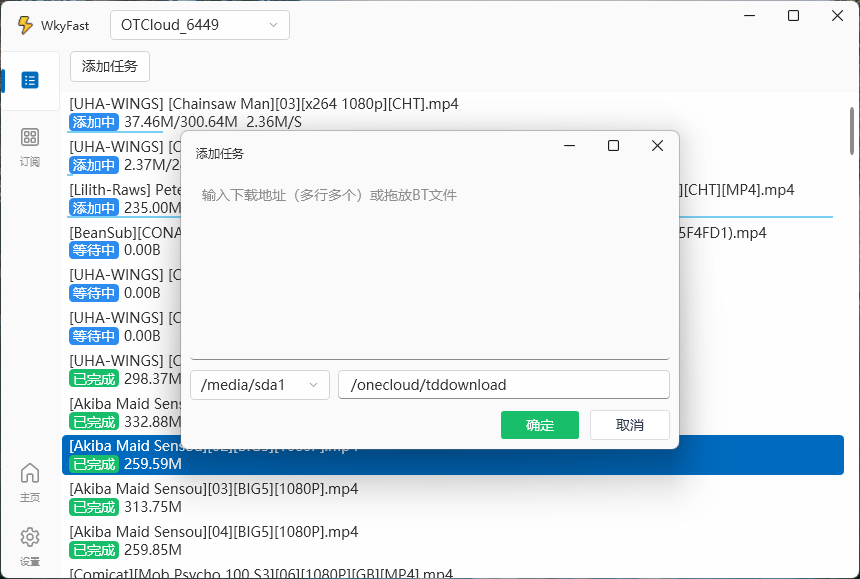
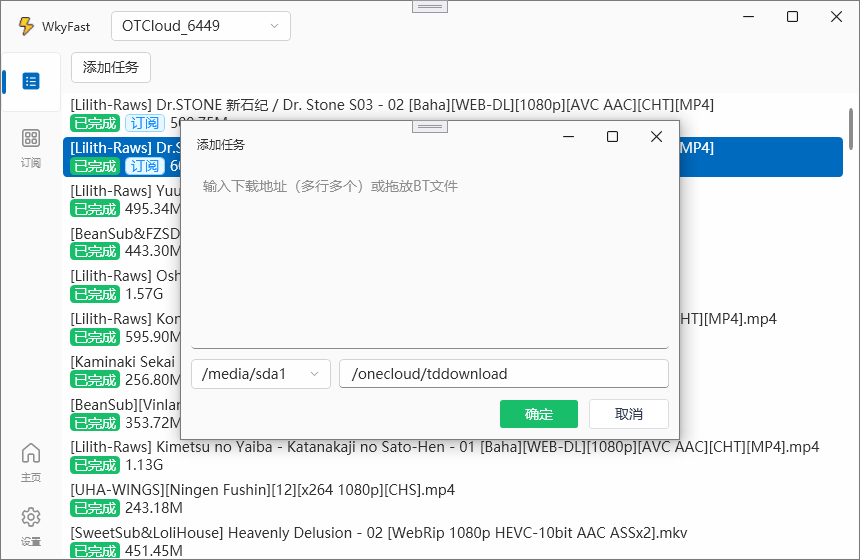
下载列表支持默认显示订阅中的名称

diff --git a/WkyFast/View/View/TaskListCellControl.xaml b/WkyFast/View/View/TaskListCellControl.xaml
@@ -16,6 +16,7 @@
         <converter:DownloadSpeedVisibilityConverter x:Key="DownloadSpeedVisibilityConverter"/>
         <converter:DownloadStatusBrushContver x:Key="DownloadStatusBrushContver"/>
         <converter:ExistVisibilityConverter x:Key="ExistVisibilityConverter"/>
+        <converter:BoolVisibilityConverter x:Key="BoolVisibilityConverter"/>
         
 
 
@@ -61,7 +62,11 @@
                     </Grid>
 
                     <StackPanel Margin="2,2"  Grid.Column="0">
-                        <TextBlock Text="{Binding Data.Name}"></TextBlock>
+                        <TextBlock Text="{Binding ShowName}">
+                            <TextBlock.ToolTip>
+                                <TextBlock Text="{Binding Data.Name}" TextWrapping="WrapWithOverflow"></TextBlock>
+                            </TextBlock.ToolTip>
+                        </TextBlock>
                         <StackPanel Orientation="Horizontal" VerticalAlignment="Center">
                             <Border CornerRadius="4" Height="18" MinWidth="40" 
                                     Background="{Binding Data.State, Converter={StaticResource DownloadStatusBrushContver}}">
@@ -79,7 +84,27 @@
                                 </TextBlock>
                             </Border>
 
-
+                            <Border Margin="5,0,0,0" BorderThickness="1" BorderBrush="#91D5FF" CornerRadius="4" Height="18" MinWidth="40" Background="#E6F7FF" Visibility="{Binding FromSubscription, Converter={StaticResource BoolVisibilityConverter}}">
+                                <!--<Border.Visibility >
+                                    <MultiBinding Converter="{StaticResource ExistVisibilityConverter}">
+                                        <Binding Path="Data.Exist"/>
+                                        <Binding Path="Data.State"/>
+                                    </MultiBinding>
+                                </Border.Visibility>-->
+                                <TextBlock Text="订阅"  Foreground="#1890FF" HorizontalAlignment="Center" VerticalAlignment="Center" Margin="4,0,4,0">
+                                    <TextBlock.Style>
+                                        <Style TargetType="TextBlock" >
+                                            <Setter Property="Foreground" Value="#FFFFFF" />
+                                            <Style.Triggers>
+                                                <DataTrigger Binding="{Binding IsSelected, RelativeSource= {RelativeSource AncestorType={x:Type DataGridRow}}}" Value="True">
+                                                    <Setter Property="Foreground" Value="#FFFFFF" />
+                                                </DataTrigger>
+                                            </Style.Triggers>
+                                        </Style>
+                                    </TextBlock.Style>
+                                </TextBlock>
+                            </Border>
+                            
                             <Border Margin="5,0,0,0" CornerRadius="4" Height="18" MinWidth="40" Background="#DCDEE2" >
                                 <Border.Visibility>
                                     <MultiBinding Converter="{StaticResource ExistVisibilityConverter}">

diff --git a/WkyFast/View/WkySubscriptionListView.xaml b/WkyFast/View/WkySubscriptionListView.xaml
@@ -73,14 +73,11 @@
                     <DataGridTemplateColumn.CellTemplate>
                         <DataTemplate>
                             <Border CornerRadius="4" >
-                                
                                 <Border.ToolTip >
-
                                     <ToolTip Background="#00000000" BorderBrush="#00000000" ToolTipService.ShowOnDisabled="True" ToolTipService.HasDropShadow="True">
                                         <ToolTip.Template>
                                             <ControlTemplate TargetType="{x:Type ToolTip}">
                                                 <Border Background="White" CornerRadius="5" BorderThickness="1" BorderBrush="#20000000" >
-                                                    <!-- ToolTip内容 -->
                                                     <Border CornerRadius="4" Padding="5,5,5,5" >
                                                         <Border.Style>
                                                             <Style TargetType="Border" >
@@ -91,9 +88,6 @@
                                                             <TextBlock Text="最近下载"></TextBlock>
                                                             <TextBlock Text="{Binding LastSubscriptionContent}" TextWrapping="Wrap"></TextBlock>
                                                         </StackPanel>
-
-
-
                                                     </Border>
                                                 </Border>
                                             </ControlTemplate>

diff --git a/WkyFast/Service/SubscriptionManager.cs b/WkyFast/Service/SubscriptionManager.cs
@@ -17,6 +17,7 @@ using WkyFast.Utils;
 using WkyFast.Service.Model.SubscriptionModel;
 using System.Text.RegularExpressions;
 using WkyApiSharp.Service.Model;
+using System.Collections;
 
 namespace WkyFast.Service
 {
@@ -57,6 +58,7 @@ namespace WkyFast.Service
 
         public ObservableCollection<SubscriptionModel> SubscriptionModel { get; set; } = new ObservableCollection<SubscriptionModel>();
 
+        public Hashtable TaskUrlToSubscriptionName { get; set; } = new Hashtable();
 
         public SubscriptionManager()
         {
@@ -192,6 +194,29 @@ namespace WkyFast.Service
 
         }
 
+
+        public string GetSubscriptionName(string downloadName)
+        {
+            foreach (var sub in SubscriptionModel)
+            {
+                foreach (var model in sub.AlreadyAddedDownloadModel)
+                {
+                    if (model.Result != null && model.Result.Tasks.Count() > 0)
+                    {
+                        foreach (var task in model.Result.Tasks)
+                        {
+                            if (task.Name == downloadName)
+                            {
+                                return model.Name;
+                            }
+                        }
+                        
+                    }
+                }
+            }
+            return "";
+        }
+
         /// <summary>
         /// 通过网络获取订阅地址的Title
         /// </summary>
@@ -307,14 +332,21 @@ namespace WkyFast.Service
 
                                     var addResult = WkyApiManager.Instance.DownloadBtFileUrl(downloadUrl, subscription.Device, savePath).Result;
 
+                                    var taskUrl = addResult?.Result?.Tasks?.FirstOrDefault()?.Url;
+                                    if (!string.IsNullOrWhiteSpace(taskUrl))
+                                    {
+                                        TaskUrlToSubscriptionName[taskUrl] = subject;
+                                    }
+
+
                                     if (addResult.SuccessCount > 0)
                                     {
-                                        subscription.AlreadyAddedDownloadModel.Add(new SubscriptionSubTaskModel() { Name = subject, Url = downloadUrl, Time = DateTime.Now} );
+                                        subscription.AlreadyAddedDownloadModel.Add(new SubscriptionSubTaskModel() { Name = subject, Url = downloadUrl, Time = DateTime.Now, Result = addResult.Result } );
                                         EasyLogManager.Logger.Info($"添加成功");
                                     }
                                     else if (addResult.DuplicateAddTaskCount > 0)
                                     {
-                                        subscription.AlreadyAddedDownloadModel.Add(new SubscriptionSubTaskModel() { Name = subject, Url = downloadUrl, Time = DateTime.Now });
+                                        subscription.AlreadyAddedDownloadModel.Add(new SubscriptionSubTaskModel() { Name = subject, Url = downloadUrl, Time = DateTime.Now, Result = addResult.Result });
                                         EasyLogManager.Logger.Info($"成功，任务已经存在，不再重复添加");
                                     }
                                     else
@@ -371,6 +403,17 @@ namespace WkyFast.Service
                     foreach (SubscriptionModel item in subscriptionModel)
                     {
                         SubscriptionModel.Add(item);
+
+                        //加载名称表
+                        foreach (var m in item.AlreadyAddedDownloadModel)
+                        {
+                            var taskUrl = m.Result?.Tasks?.FirstOrDefault()?.Url;
+                            if (!string.IsNullOrWhiteSpace(taskUrl))
+                            {
+                                TaskUrlToSubscriptionName[taskUrl] = m.Name;
+                            }
+                                
+                        }
                     }
                 }
 

diff --git a/WkyFast/Service/Model/TaskModel.cs b/WkyFast/Service/Model/TaskModel.cs
@@ -3,6 +3,7 @@ using System.Collections.Generic;
 using System.Linq;
 using System.Text;
 using System.Threading.Tasks;
+using System.Xml.Linq;
 
 namespace WkyFast.Service.Model
 {
@@ -10,6 +11,68 @@ namespace WkyFast.Service.Model
 
     public class TaskModel : BaseNotificationModel
     {
+        //获取展示用的名字
+
+        public bool FromSubscription
+        {
+            get
+            {
+                return SubscriptionManager.Instance.TaskUrlToSubscriptionName.ContainsKey(Data.Url);
+            }
+
+        }
+
+        public string ShowName { 
+            get 
+            { 
+                if (FromSubscription)
+                {
+                    if (SubscriptionManager.Instance.TaskUrlToSubscriptionName.ContainsKey(Data.Url))
+                    {
+                        var name = (string)SubscriptionManager.Instance.TaskUrlToSubscriptionName[Data.Url];
+                        if (!string.IsNullOrWhiteSpace(name))
+                        {
+                            return name;
+                        }
+                    }
+                    return Data.Name;
+
+                }
+                else
+                {
+                    return Data.Name;
+                }
+            
+            
+            } 
+        }
+
+        public string SubscriptionName
+        {
+            get
+            {
+                if (FromSubscription)
+                {
+                    if (SubscriptionManager.Instance.TaskUrlToSubscriptionName.ContainsKey(Data.Name))
+                    {
+                        var name = (string)SubscriptionManager.Instance.TaskUrlToSubscriptionName[Data.Name];
+                        if (!string.IsNullOrWhiteSpace(name))
+                        {
+                            return name;
+                        }
+                    }
+                    return Data.Name;
+
+                }
+                else
+                {
+                    return Data.Name;
+                }
+
+
+            }
+        }
+
         public WkyApiSharp.Service.Model.RemoteDownloadList.Task Data { get; set; }
     }
 }

diff --git a/WkyFast/View/Contver/DownloadSizeContver.cs b/WkyFast/View/Contver/DownloadSizeContver.cs
@@ -214,4 +214,24 @@ namespace WkyFast.View.Contver
         }
     }
 
+
+    [ValueConversion(typeof(bool), typeof(Visibility))]
+    public class BoolVisibilityConverter : IValueConverter
+    {
+
+        public object Convert(object value, Type targetType, object parameter, CultureInfo culture)
+        {
+            if (value == null || (bool)value == false )
+            {
+                return Visibility.Collapsed;
+            }
+            return Visibility.Visible;
+        }
+
+        public object ConvertBack(object value, Type targetType, object parameter, CultureInfo culture)
+        {
+            throw new NotImplementedException();
+        }
+    }
+
 }

diff --git a/WkyFast/Service/Model/SubscriptionModel.cs b/WkyFast/Service/Model/SubscriptionModel.cs
@@ -16,6 +16,8 @@ namespace WkyFast.Service.Model.SubscriptionModel
     using Newtonsoft.Json;
     using Newtonsoft.Json.Converters;
     using WkyApiSharp.Service.Model;
+    using WkyApiSharp.Service.Model.BtCheck;
+    using WkyApiSharp.Service.Model.CreateTaskResult;
 
     public partial class SubscriptionModel : BaseNotificationModel
     {
@@ -104,6 +106,10 @@ namespace WkyFast.Service.Model.SubscriptionModel
 
         [JsonProperty("Time")]
         public DateTime Time { get; set; }
+
+        [JsonProperty("Result")]
+        public WkyApiCreateTaskResultModel Result { get; set; }
+        
     }
 
     public partial class SubscriptionModel

diff --git a/WkyFast/Service/Model/DownloadResult.cs b/WkyFast/Service/Model/DownloadResult.cs
@@ -3,6 +3,8 @@ using System.Collections.Generic;
 using System.Linq;
 using System.Text;
 using System.Threading.Tasks;
+using WkyApiSharp.Service.Model.BtCheck;
+using WkyApiSharp.Service.Model.CreateTaskResult;
 
 namespace WkyFast.Service.Model
 {
@@ -20,6 +22,9 @@ namespace WkyFast.Service.Model
         //已经存在的数量
         public int DuplicateAddTaskCount { get; set; }
 
+
+        public WkyApiCreateTaskResultModel Result { get; set; }
+        
 
     }
 }

diff --git a/WkyFast/Service/WkyApiManager.cs b/WkyFast/Service/WkyApiManager.cs
@@ -195,6 +195,7 @@ namespace WkyFast.Service
                     var result = await _api?.CreateTaskWithBtCheck(wkyDevice.Device.Peerid, path, bcCheck);
                     if (result.Rtn == 0)
                     {
+                        downloadResult.Result = result;
                         downloadResult.AllTaskCount = result.Tasks.Length;
                         foreach (var item in result.Tasks)
                         {
